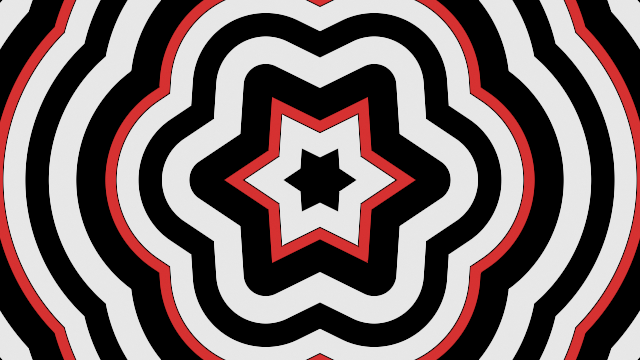
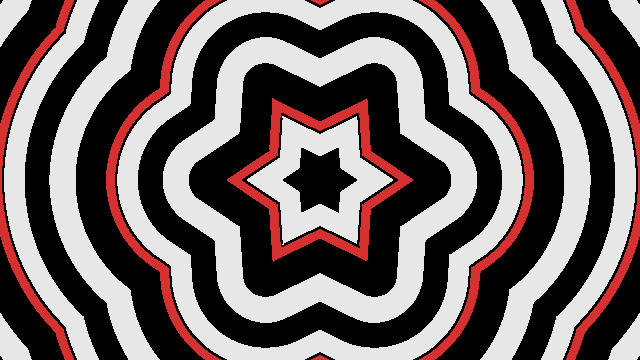
feat(preset): a hard key on the mono print, and the ladder world
Plan 0184 phase 4, the look gate. shape_contourmono moves to
palette_contour_style 1: the hard black key it filed as feedback when it
shipped. Measured at 640x360 loud, the frame goes back to 9 exact colours
from the soft style 677, and the red accent to 4.57 percent. Style 3, the
hard ink key, was rendered and rejected - it also measures 9 but lays a
red line at every run boundary, taking red to 11.70 percent and erasing
the difference between the accent band and the key.

warp_ladder is the op-art world backlog 0146 asked for: color_source 1,
so the bands are the feedback field own decay contours marching outward.
It is NOT a limited-ink print and its header says so - the present writes
ink times coverage and coverage is a continuum, 851 exact colours from
two inks, which palette_steps 12 brings back to 60 by quantizing the
level the coverage is computed from. That answers the fringe question
ADR-0197 leaves to this gate: the fade reads as shading, and a coverage
threshold in level mode goes back to architect as a named finding.

Both presets pass cargo nextest run -p rlx-core, 1496 passed. The CARDS
entry and the two gallery renders are here because a shipped preset
without a card fails hygiene, which the phase Files touched did not
anticipate.

diff --git a/docs/plans/0184-a-contour-that-is-an-ink-and-a-warp-field-that-bands.md b/docs/plans/0184-a-contour-that-is-an-ink-and-a-warp-field-that-bands.md
@@ -298,7 +298,7 @@ fn band_contour_ink(col: vec3<f32>, t: f32, steps: f32, amount: f32, style: f32,
 | 1 — The contour copies are all watched, then the contour learns a style and an ink | dev | done | `277d7e1` (the watch), `80426fb` (the style and ink) |
 | 2 — `warp_mesh` colours by its own level | dev | done | `9627131` |
 | 3 — The palette reader says what a contour can be and where the warp field takes its colour | dev | done | `d575f65` |
-| 4 — The look gate: a hard key on the mono print, and a ladder world | human | not started | |
+| 4 — The look gate: a hard key on the mono print, and a ladder world | human | done | committed with this row |
 
 ### Notes
 
@@ -402,9 +402,77 @@ darkening. `docs/presets.md` was read and left alone: it never restates the cont
 **Phase 3 — `docs/preset-palettes.md` carries no contents block**, so `toc.mjs` rewrote nothing for
 its two new `###` headings; `presets/README.md`'s block is `depth=3` and gained no heading.
 
+### Phase 4 — the look gate
+
+Taken 2026-09-17 in the `preset-author` lane, at 640x360 unless a line says otherwise, on the same
+adapter Phases 1 and 2 recorded. Both presets land under ADR-0081; `architect` curates the set.
+
+**`shape_contourmono` moves to `palette_contour_style = "1"` — the hard black key.** All four styles
+were rendered at the shipped `palette_contour = "1.0"` and the distinct-colour reading reproduces
+Phase 1's exactly, which is the first thing worth recording: 677 at style 0, **9** at style 1, 924 at
+style 2, **9** at style 3.
+
+- **The verdict on the key:** at style 1 it reads as a drawn ink edge. The soft style's line carried a
+  grey shoulder at every white/black boundary, which is what the world's own header objected to; the
+  step removes it, and the frame reads as a woodcut with registration rather than a softened one.
+- **Style 3 was rendered and rejected, on composition rather than on ink count.** Drawn at
+  `palette_contour_ink = "0.955"` it also measures 9 colours and it makes a striking frame, but it
+  lays a red line at every run boundary: red goes 4.57 % -> **11.70 %** of the frame and the accent
+  band stops being distinguishable from the key. Recorded in the preset's header as a rejected
+  alternative, not as a tuning note.
+- **The amount table was re-measured under the hard style**, since the shipped one was taken on the
+  soft one: 17 distinct colours at `0.25`, 18 at `0.5`, **9** at `1.0`. The argument for full strength
+  is now exact rather than a trade — at `1.0` the line's value is pure black, an ink the palette
+  already holds, so the key costs nothing.
+
+**The new world is `presets/warp_ladder.toml`, "Ladder"** — `color_source = "1"`, a centred deposit,
+six palette runs at `color_span = "0.085"`, twelve bands. Its bands **are** the decay contours
+backlog 0146 asked for, and they march outward.
+
+- **The verdict on the ladder:** the rungs read as decay contours, and the world is the op-art print
+  the entry wanted. What it is **not** is a limited-ink one, which is the finding below.
+- **ADR-0197's fringe question, answered: the fade reads as shading, not as dissolving — and at
+  `palette_steps = "0"` it is not a fringe at all but the whole frame.** The present writes
+  `ink * coverage` and coverage is a continuum, so a two-ink palette measures **851** exact colours.
+  What recovers most of it is `palette_steps`: quantizing the palette coordinate quantizes the level
+  the coverage is computed from, and the same frame at twelve bands measures **60**. The preset ships
+  at twelve for that reason, and its header states the count rather than claiming an ink class.
+  **A coverage threshold in level mode — the candidate ADR-0197 names — is the shape this points at**,
+  and it is `architect`'s to weigh, not something to tune around.
+- **`palette_contour` is inert on this world, for a mechanical reason worth recording.** It draws at a
+  *band* edge, so at `palette_steps = "0"` there is no edge to draw at: 851 colours with the key at
+  full strength and 851 without it, measured both ways. With the twelve bands on it does bite (60 ->
+  56 colours, about a tenth of the frame turning true black), and it is still off — on a duotone the
+  key falls inside the black rung it would mark. A palette's own flat runs are not band edges.
+- **The horizon was run, because the filmstrip forced the question.** Over the first seconds the
+  ladder adds rungs steadily, which looks like a world winding itself tighter. Five simulated minutes
+  at 96x96: coverage 0.408 -> 0.619 and `peak/mean` 2.467 -> 1.629, both flat to within one part in a
+  hundred across the last three rows, against a static control at `delta 0.0000, monotone 0.00`. The
+  first two minutes are the leaky integrator filling; the verdict is in the preset's header.
+- **Readings against family neighbours.** Contour Mono `drive` **0.366**, `rate` **0.0041**, in a
+  `shape_field` family spanning 0.125-0.444 and 0.0035-0.0165 — mid-family, so the key changed the
+  look without moving the behaviour. Ladder `drive` **0.560**, `rate` **0.0345**, against a
+  `warp_mesh` family spanning 0.058-0.117 and 0.0015-0.0032: a 5x and 10x outlier, recorded rather
+  than tuned away. Its neighbours are slow fluid worlds, and the report's own note applies — motion
+  inside a static repeating structure reads calmer than the number suggests.
+
+**The gate that authorizes the two presets:** `cargo nextest run -p rlx-core` through the conductor's
+lock, **1496 passed, 0 failed, 7 skipped**, nothing blessed and the worktree clean afterwards. The
+first run of it failed on one test and that is the deviation below.
+
+**Deviation from the phase's `Files touched`, disclosed:** it names the two presets and "nothing in
+engine code", but a preset that ships needs a `CARDS` entry in `scripts/docs-shots.mjs` and a
+committed render, or `hygiene::every_shipped_preset_has_a_gallery_card` fails — and it did, on the
+first run of the suite. The two cards were rendered **by hand at the manifest's own settings**
+(`--signal dynamic:110 --frame-at 300 --size 640x360 --tier rich`) rather than by re-running the
+script over the whole gallery, which would have rewritten about a hundred PNGs with rasterizer drift.
+`shape_contourmono`'s card is re-rendered because its look changed.
+
 ### Close triggers
 
-- **`presets/` touched:** yes, and **no `.toml` preset was added, removed or retuned**.
+- **`presets/` touched:** yes. Phases 1-3 touched **no** `.toml` preset; **Phase 4 adds
+  `presets/warp_ladder.toml` and re-authors `presets/shape_contourmono.toml`** onto the hard style,
+  both under ADR-0081, with two gallery cards and a `CARDS` entry beside them.
   `presets/README.md` moved three ways — its generated params block regenerated for the three new
   `ParamSpec`s, its hand-written `warp_mesh` prose, and its hand-written hard-bands section — and
   `presets/preset.schema.json` plus seven files under `presets/schema/` are regenerated output.
@@ -420,8 +488,11 @@ its two new `###` headings; `presets/README.md`'s block is `depth=3` and gained 
   `cargo nextest run --workspace -P fast` (1693 passed, 305 skipped) plus the five deferred suites
   this plan's blast radius calls for — `golden`, `sanity`, `reactivity`, `animation`, `distinctness`
   — at both Phase 1 and Phase 2, **372 passed, 3 skipped, nothing blessed** each time.
-- **Outstanding `human` phases:** Phase 4, the `preset-author` look gate — `shape_contourmono`
-  re-authored onto a contour style, and a new mono `warp_mesh` ladder world on `color_source = 1`.
-  Its two verdicts are what ADR-0197's fringe question is left to.
+- **Outstanding `human` phases:** none. Phase 4 was taken 2026-09-17 and its two verdicts are above:
+  `shape_contourmono` ships on the hard black key, the ladder world ships and is **not** a
+  limited-ink print. ADR-0197's fringe question is answered against it — the fade reads as shading —
+  so the ADR is accepted at close **with that recorded**, per the phase's own stop condition, and the
+  coverage-threshold candidate goes back to `architect` as a named finding rather than being tuned
+  around.
 
 ## Followups (after this lands)
